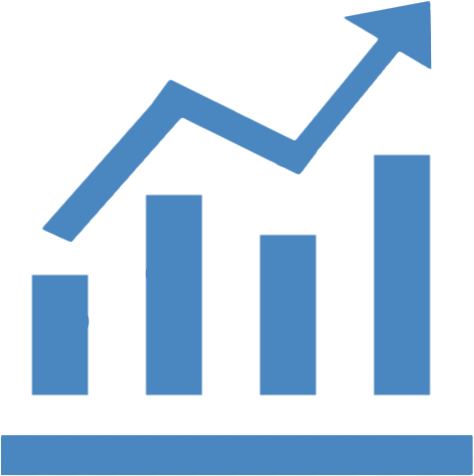
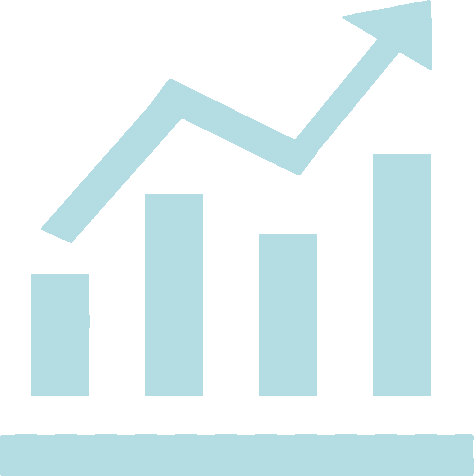
Style header

diff --git a/index.html b/index.html
@@ -4,51 +4,49 @@
 <head>
     <meta charset="UTF-8">
     <meta name="viewport" content="width=device-width, initial-scale=1.0">
-    <title>Document</title>
-    <link rel="stylesheet" href="./assets/css/style.css">
+    <title>Finance Assistant</title>
     <link rel="stylesheet" href="https://cdn.jsdelivr.net/npm/foundation-sites@6.6.3/dist/css/foundation.min.css"
         integrity="sha256-ogmFxjqiTMnZhxCqVmcqTvjfe1Y/ec4WaRj/aQPvn+I=" crossorigin="anonymous">
+    <link rel="stylesheet" href="./assets/css/style.css">
 </head>
 
 <body>
     <!-- Start Of Header-->
     <header>
-        <div class="row">
-            <div class="columns small-1">
-                <img id="stock-icon" src="./assets/images/stock-icon.png">
+        <div class="grid-x">
+            <div class="cell">
+                <img src="./assets/images/stock-icon.png" alt="">
+
+                <h1><a href="./index.html" class="title">Finance Assistant</a></h1>
+
+                <nav>
+                    <ul>
+                        <li><a href="">Featured Articles</a></li>
+                        <li><a href="">Prices</a></li>
+                        <li><a href="">Exchange Rates</a></li>
+                        <li><a href="">Article Search</a></li>
+                    </ul>
+                </nav>
             </div>
-
-            <div>
-
-            </div>
-        </div>
-
-        <div id="nav">
-            <ul class="menu align-center simple">
-
-                <li class="menu-text" id="header-text">Net Worth</li>
-                <li class="list-item-1">Home</li>
-                <li class="list-item-2">About</li>
-                <li class="list-item-3">Share</li>
-            </ul>
         </div>
     </header>
     <!-- About Modal Section -->
     <div class="modal-bg">
         <div class="modal" id="about-modal">
-            
+
             <h2>About Us</h2>
             <hr>
-            <p>Lorem ipsum dolor sit amet, consectetur adipiscing elit. Proin tellus ligula, laoreet ac pulvinar id, 
+            <p>Lorem ipsum dolor sit amet, consectetur adipiscing elit. Proin tellus ligula, laoreet ac pulvinar id,
                 gravida eu est. Donec dictum augue aliquam efficitur semper. Donec semper dignissim nibh, nec cursus
-                 lectus euismod at. Maecenas ipsum risus, pellentesque vel gravida ut, venenatis gravida urna.
-                  Duis ornare sapien ac quam imperdiet, id rhoncus dolor egestas. Phasellus lacinia risus at nisi luctus, quis maximus elit rutrum. Nam et elit fermentum, 
+                lectus euismod at. Maecenas ipsum risus, pellentesque vel gravida ut, venenatis gravida urna.
+                Duis ornare sapien ac quam imperdiet, id rhoncus dolor egestas. Phasellus lacinia risus at nisi luctus,
+                quis maximus elit rutrum. Nam et elit fermentum,
                 tincidunt sapien eget, mattis felis. Curabitur luctus in sem ut consequat. Sed non interdum</p>
             <button class="button" type="button" id="close-button">X</button>
-       
+
         </div>
     </div>
-<!-- Start Of Main Section-->
+    <!-- Start Of Main Section-->
     <main>
         <form>
             <label>Cryptocurrency: </label>

diff --git a/assets/css/style.css b/assets/css/style.css
@@ -1,20 +1,54 @@
-:root {
-}
 
 * {
-  box-sizing: border-box;
-  margin: 0;
-  padding: 0;
+	box-sizing: border-box !important;
 }
 
-body {
-  font-family: Helvetica, Arial, sans-serif;
+header .cell {
+	display: flex;
+	align-items: center;
+	background: #32343d;
+	padding: 10px;
 }
 
-#stock-icon {
-  height: 70px;
-  margin: 10px;
+header a,
+header a:hover {
+	color: #b4dde3;
 }
+
+header h1,
+header nav,
+header ul {
+	display: inline;
+}
+
+header img {
+	height: 64px;	
+	padding: 0 10px 14px 0;
+}
+
+header h1 {
+	font-weight: bold;
+	height: min-content;
+}
+
+header nav {
+	margin-left: auto;
+}
+
+header ul {
+	font-size: x-large;
+}
+
+header ul>* {
+	list-style-type: none;
+	display: inline;
+	margin-left: 5px;
+	margin-right: 5px;
+}
+
+/* 
+
+
 .list-item-1,
 .list-item-2,
 .list-item-3 {
@@ -64,21 +98,4 @@ p {
   position: absolute;
   top: 10px;
   right: 10px;
-}
-
-#nav {
-  background-color: #fff;
-}
-
-#stock-input {
-  float: right;
-}
-#stock-icon {
-  height: 25px;
-  width: 25px;
-  float: left;
-}
-#header-text {
-  height: 50px;
-  width: 50px;
-}
+} */
